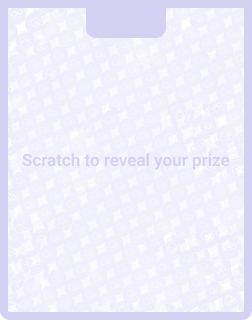
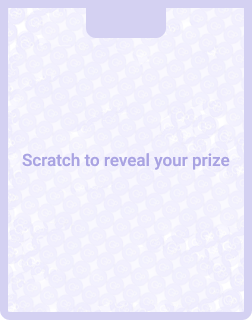
count up

Changed region(s): [[0.4167, 0.4688, 0.9167, 0.5312], [0.0833, 0.4688, 0.3889, 0.5312]]

diff --git a/coin-parliament/src/Components/Header.tsx b/coin-parliament/src/Components/Header.tsx
@@ -207,6 +207,7 @@ const Header = ({
 	const [followerInfo, setFollowerInfo] = useState<any>()
 	const [followUnfollow, setFollowUnfollow] = useState<any>(false)
 	const [scrollUp, setScrollUp] = useState<any>(false)
+	const [textBlink, setTextBlink] = useState<any>(false)
 	const [show, setShow] = useState(false);
 	const { leaders } = useContext(CoinsContext);
 
@@ -557,12 +558,16 @@ const Header = ({
 															:
 															<span style={{ color: "#6352E8", marginLeft: "10px", fontSize: window.screen.width <= 340 ? '0.7889em' : '12px' }}>
 																{(MyPath == "/profile/mine" && inOutReward === 2) ?
-																	<CountUp className={inOutReward == 2 && showReward == 2 ? "HeaderText" : ""} start={voteNumber || 0 - (headerExtraVote?.vote || 0)} end={(voteNumber || 0) + (headerExtraVote?.vote || 0)} duration={10} delay={2}
+																	<CountUp useEasing={false} className={textBlink ? "HeaderText " : ""} start={voteNumber || 0 - (headerExtraVote?.vote || 0)} end={(voteNumber || 0) + (headerExtraVote?.vote || 0)} duration={rewardExtraVote < 10 ? rewardExtraVote : 10} delay={2}
 																		onStart={() => {
 																			// handleExtraVote.play()
+																			setTimeout(() => {
+																				setTextBlink(true)
+																			}, 2500);
 																		}}
 																		onEnd={() => {
-																			// handleExtraVote.pause()
+																			setTextBlink(false)		
+																			handleExtraVote.pause()
 																			setInOutReward((prev: number) => {
 																				// return prev == 2 ? 3 : prev
 																				handleSoundWinCmp.play()
@@ -772,12 +777,16 @@ const Header = ({
 														>
 															{/* reward modal 4 */}
 															{(MyPath == "/profile/mine" && inOutReward === 2) ?
-																<CountUp className={inOutReward == 2 && showReward == 2 ? "HeaderText" : ""} start={voteNumber || 0 - (headerExtraVote?.vote || 0)} end={(voteNumber || 0) + (headerExtraVote?.vote || 0)} duration={10} delay={2}
+																<CountUp useEasing={false} className={textBlink ? "HeaderText" : ""} start={voteNumber || 0 - (headerExtraVote?.vote || 0)} end={(voteNumber || 0) + (headerExtraVote?.vote || 0)} duration={rewardExtraVote < 10 ?rewardExtraVote :10} delay={2}
 																	onStart={() => {
 																		// handleExtraVote.play()
+																		setTimeout(() => {																			
+																			setTextBlink(true)
+																		}, 2500);
 																	}}
-																	onEnd={() => {
-																		// handleExtraVote.pause()
+																	onEnd={() => {																		
+																			setTextBlink(false)																		
+																		handleExtraVote.pause()
 																		setInOutReward((prev: number) => {
 																			// return prev == 2 ? 3 : prev
 																			handleSoundWinCmp.play()

diff --git a/coin-parliament/src/Components/Profile/PAXCard.tsx b/coin-parliament/src/Components/Profile/PAXCard.tsx
@@ -122,6 +122,7 @@ const PAXCard = ({ walletId, PAX, rewardTimer, countShow, setCountShow }: PAXCar
   const [videoShow, setVideoShow] = React.useState(false);
   const handleClose = () => setModalShow(false);
   const handleShow = () => setModalShow(true);
+  const [textBlink, setTextBlink] = useState<any>(false)
 
   const translate = useTranslation();
   const [showCoinIncrement, setShowCoinIncrement] = useState<number>(0); //1 =show 1>=hide
@@ -173,14 +174,19 @@ const PAXCard = ({ walletId, PAX, rewardTimer, countShow, setCountShow }: PAXCar
         >
           {showCoinIncrement === 1 ?
             <>
-              <CountUp className="PaxText coinText" start={prevCountRef} end={PAX && PAX} duration={10} delay={2}
+              <CountUp className={`${textBlink ? "PaxText " : ""}coinText`} start={prevCountRef} end={PAX && PAX} duration={rewardTimer?.data?.thirdRewardDiamonds < 10 ? rewardTimer?.data?.thirdRewardDiamonds :10} delay={2} useEasing={false}
                 onStart={() => {
                   // handleExtraCoin.play();
+                  setTimeout(() => {
+                    setTextBlink(true)
+                  }, 2200);
                 }}
                 onEnd={() => {
+                  setTextBlink(false)
                   // handleExtraCoin.pause();
+                  handleShow();
                   setTimeout(() => {
-                    handleShow();
+                    // handleShow();
                     setShowCoinIncrement(2);
                     setPrevCountRef(PAX);
                     setSliverCoin(false)
